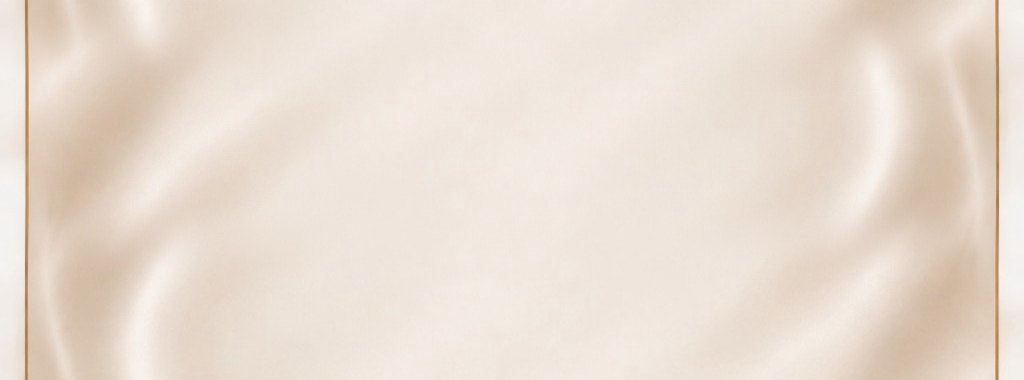
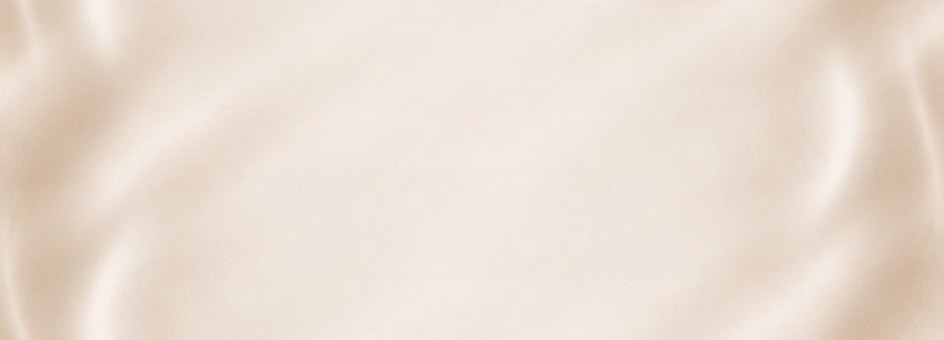
Card satin: broad enlarged folds, frame line and border drawn in CSS

diff --git a/style.css b/style.css
@@ -84,11 +84,21 @@ body {
   text-align: center;
   /* top/bottom clearances keep text off the corner florals */
   padding: var(--clear-top, 24cqw) 11cqw var(--clear-bottom, 18cqw);
-  /* Nothing is stretched: plain satin repeats at its true proportions
-     (bg-mid-tile = bg-mid, flipped and turned copies, soft-blended into a seamless
-     loop) and the floral top/bottom slices fade into it via ::before / ::after */
+  /* Nothing is stretched. Between the floral slices (::before / ::after, true
+     proportions) the satin from inside the frame repeats, enlarged ~2x so its
+     folds are as broad as in the artwork (bg-mid-tile = bg-mid + its 180deg turn,
+     soft-blended into a seamless loop). The frame line and pale border are drawn
+     here, matching the artwork (line at 25-28px of 1024, border to 24px). */
   isolation: isolate;
-  background: url("assets/bg-mid-tile.jpg") center top / 100% auto repeat-y, #f1e6d8;
+  --frame: #b48c62;
+  --border: #f2ede8;
+  background:
+    linear-gradient(var(--border), var(--border)) left top / 2.4cqw 100% no-repeat,
+    linear-gradient(var(--border), var(--border)) right top / 2.4cqw 100% no-repeat,
+    linear-gradient(var(--frame), var(--frame)) 2.45cqw 0 / max(1px, 0.32cqw) 100% no-repeat,
+    linear-gradient(var(--frame), var(--frame)) calc(100% - 2.45cqw) 0 / max(1px, 0.32cqw) 100% no-repeat,
+    url("assets/bg-mid-tile.jpg") center top / 205% auto repeat-y,
+    #e2d0bf;
   box-shadow:
     0 1px 2px rgba(74, 52, 38, 0.08),
     0 18px 50px -12px rgba(74, 52, 38, 0.28);
